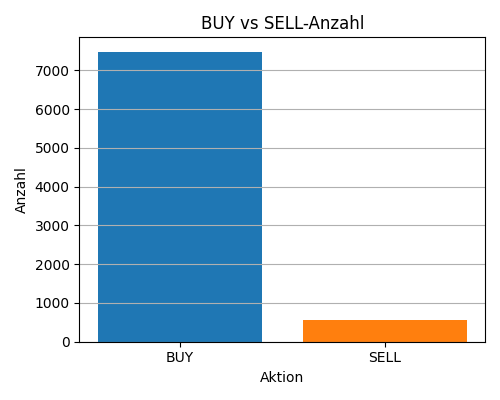
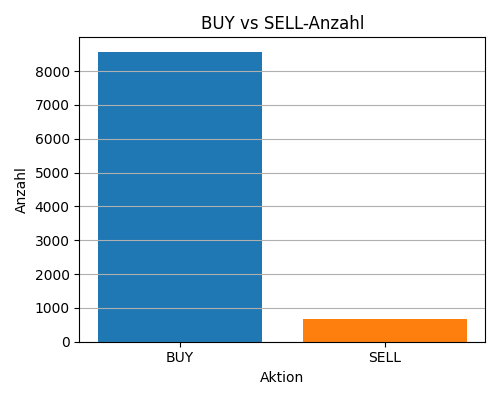
Backtesting

diff --git a/experiments/exp_1_2/scripts/09_model_deployment/backtesting.py b/experiments/exp_1_2/scripts/09_model_deployment/backtesting.py
@@ -81,6 +81,7 @@ signals_count = 0
 buying_count = 0
 trades = {}
 net_test.eval()
+holding_count = 0
 
 def calculate_equity(row_index, positions, account):
     current_price = x_test.loc[row_index, 'close']
@@ -97,10 +98,61 @@ trade_log = []
 # Erfassung der Aktionen BUY/SELL
 action_log = []
 
-def setOrder(predicted, row_index, account, positions, timestamp, buying_count):
+def setSellOrder(row_index, account, positions, timestamp, buying_count):
+    current_price = x_test.loc[row_index, 'close']
+    trades[timestamp] = "SELL"
+    if len(positions) > 0:  # Nur verkaufen wenn Position offen
+        position = positions[0]
+        entry_price = position['entry_price']
+        shares = position['shares']
+
+        action_log.append({
+                "timestamp": timestamp,
+                "action": "SELL"
+        })
+        buying_count = 0
+        # Gewinn/Verlust berechnen
+        exit_value = shares * current_price
+        position_size = position['position_size']
+        profit = exit_value - position_size
+        profit_pct = (profit / position_size) * 100
+
+        trade_log.append({
+            "timestamp": timestamp,
+            "type": "SELL",
+            "entry_index": position["entry_index"],
+            "exit_index": row_index,
+            "entry_price": entry_price,
+            "exit_price": current_price,
+            "position_size": position_size,
+            "exit_value": exit_value,
+            "profit": profit,
+            "profit_pct": profit_pct
+        })
+
+        # Kapital updaten
+        account += exit_value
+
+        print(f"🔴 SELL at {row_index}")
+        print(f"   Entry: ${entry_price:.2f} → Exit: ${current_price:.2f}")
+        print(f"   Shares: {shares:.4f}")
+        print(f"   Profit: ${profit:.2f} ({profit_pct:+.2f}%)")
+        print(f"   New Account: ${account:.2f}")
+
+        # Position schließen
+        positions.clear()
+
+    if len(positions) > 0:
+        position_value_after = positions[0]['shares'] * current_price
+    else:
+        position_value_after = 0.0
+    equity_after = account + position_value_after
+    return account, equity_after, buying_count
+
+def setBuyOrder(prob_up, row_index, account, positions, timestamp, buying_count):
     current_price = x_test.loc[row_index, 'close']
 
-    if predicted == 2 and buying_count < 16:  # UP - KAUFEN
+    if buying_count < 16:  # UP - KAUFEN
         trades[timestamp] = "BUY"
         if len(positions) == 0:
             # Erste Position öffnen
@@ -132,7 +184,7 @@ def setOrder(predicted, row_index, account, positions, timestamp, buying_count):
             # Position bereits offen - NACHKAUFEN
             position = positions[0]
 
-            additional_size = account * 0.1  # Nur 5% nachkaufen
+            additional_size = account * 0.10  # Nur 5% nachkaufen
             additional_shares = additional_size / current_price
             account = account - additional_size
 
@@ -156,51 +208,8 @@ def setOrder(predicted, row_index, account, positions, timestamp, buying_count):
             print(f"   Additional Shares: {additional_shares:.4f}")
             print(f"   Total Shares: {total_shares:.4f}")
 
-    elif predicted == 2 and buying_count > 15:
-        print("BUYING SIGNAL -- BUT BOUGHT ALREADY 3 TIMES")
-
-    elif predicted == 0:  # DOWN - VERKAUFEN
-        trades[timestamp] = "SELL"
-        if len(positions) > 0:  # Nur verkaufen wenn Position offen
-            position = positions[0]
-            entry_price = position['entry_price']
-            shares = position['shares']
-
-            action_log.append({
-                "timestamp": timestamp,
-                "action": "SELL"
-            })
-            buying_count = 0
-            # Gewinn/Verlust berechnen
-            exit_value = shares * current_price
-            position_size = position['position_size']
-            profit = exit_value - position_size
-            profit_pct = (profit / position_size) * 100
-
-            trade_log.append({
-                "timestamp": timestamp,
-                "type": "SELL",
-                "entry_index": position["entry_index"],
-                "exit_index": row_index,
-                "entry_price": entry_price,
-                "exit_price": current_price,
-                "position_size": position_size,
-                "exit_value": exit_value,
-                "profit": profit,
-                "profit_pct": profit_pct
-            })
-
-            # Kapital updaten
-            account += exit_value
-
-            print(f"🔴 SELL at {row_index}")
-            print(f"   Entry: ${entry_price:.2f} → Exit: ${current_price:.2f}")
-            print(f"   Shares: {shares:.4f}")
-            print(f"   Profit: ${profit:.2f} ({profit_pct:+.2f}%)")
-            print(f"   New Account: ${account:.2f}")
-
-            # Position schließen
-            positions.clear()
+    else:
+        print("BUYING SIGNAL -- BUT BOUGHT ALREADY 15 TIMES")
 
     if len(positions) > 0:
         position_value_after = positions[0]['shares'] * current_price
@@ -223,33 +232,34 @@ with torch.no_grad():
             prob_up = probs[i, 2].item()
 
             predicted = torch.argmax(probs[i]).item()
+            diff = abs(prob_up - prob_down) * 100
+            print(f"Diff: {diff:.2f}")
 
             # Nur wenn Up oder Down predicted (nicht Hold)
-            if predicted in [0, 2]:  # 0=Down, 2=Up
-                diff = abs(prob_up - prob_down) * 100
-                print(f"Diff: {diff:.2f}")
-                if diff >= 1:
-                    print("---Model---")
-                    timestamp = mapping.loc[row_index, "timestamp"]
-                    equity_timestamps.append(timestamp)
-                    account_model, equity, buying_count = setOrder(predicted, row_index, account_model, positions_model, timestamp, buying_count)
-                    equity_curve.append(equity)
-                    signals_count += 1
+            if predicted == 2 and diff >= 1:  # 0=Down, 2=Up
+                print("---Model---")
+                timestamp = mapping.loc[row_index, "timestamp"]
+                equity_timestamps.append(timestamp)
+                account_model, equity, buying_count = setBuyOrder(prob_up, row_index, account_model, positions_model, timestamp, buying_count)
+                equity_curve.append(equity)
+                signals_count += 1
+                holding_count = 0
 
-                else:
-                    print("---HOLD---")
-                    equity = calculate_equity(row_index, positions_model, account_model)
-                    equity_curve.append(equity)
-                    timestamp = mapping.loc[row_index, "timestamp"]
-                    equity_timestamps.append(timestamp)
+            elif (predicted == 0 and diff >= 1) or holding_count > 15:
+                print("---Model---")
+                timestamp = mapping.loc[row_index, "timestamp"]
+                equity_timestamps.append(timestamp)
+                account_model, equity, buying_count = setSellOrder(row_index, account_model, positions_model,timestamp, buying_count)
+                equity_curve.append(equity)
+                holding_count = 0
 
             else:
                 print("---HOLD---")
+                holding_count += 1
                 equity = calculate_equity(row_index, positions_model, account_model)
                 equity_curve.append(equity)
                 timestamp = mapping.loc[row_index, "timestamp"]
                 equity_timestamps.append(timestamp)
-
 
 print("-----------------------------------------------")
 print(f"   Account Model: {account_model:.4f}")
